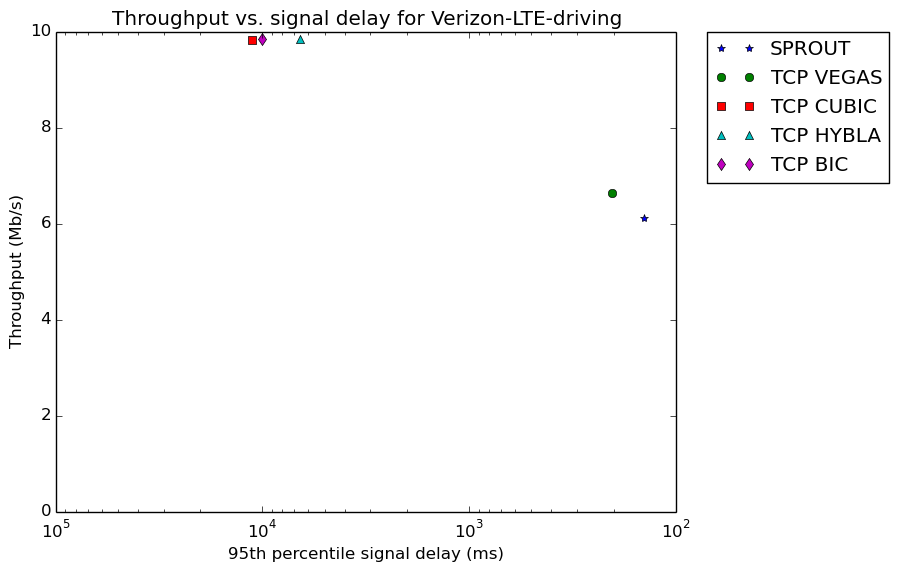
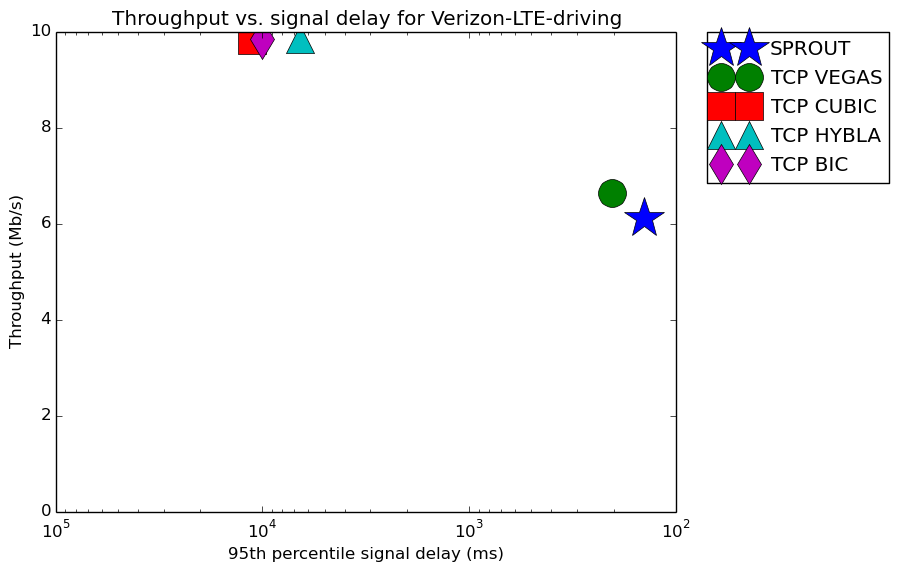
make markers bigger

Changed region(s): [[0.7786, 0.0594, 0.8721, 0.3269], [0.6541, 0.2972, 0.7475, 0.4161], [0.2492, 0.0594, 0.3426, 0.1189]]

diff --git a/make_graphs.py b/make_graphs.py
@@ -10,7 +10,10 @@ def make_graph(data, title, save):
 
   count = 0
   for label, x, y in data:
-    plt.plot(x, y, markers[count % len(markers)], label = label)
+    ms = 20
+    if label == 'SPROUT':
+      ms = 30
+    plt.plot(x, y, markers[count % len(markers)], label = label, ms = ms)
     count += 1
     #ax.annotate('%s' % label, xy=(x, y), textcoords='data')
   ax.set_xscale('log')
